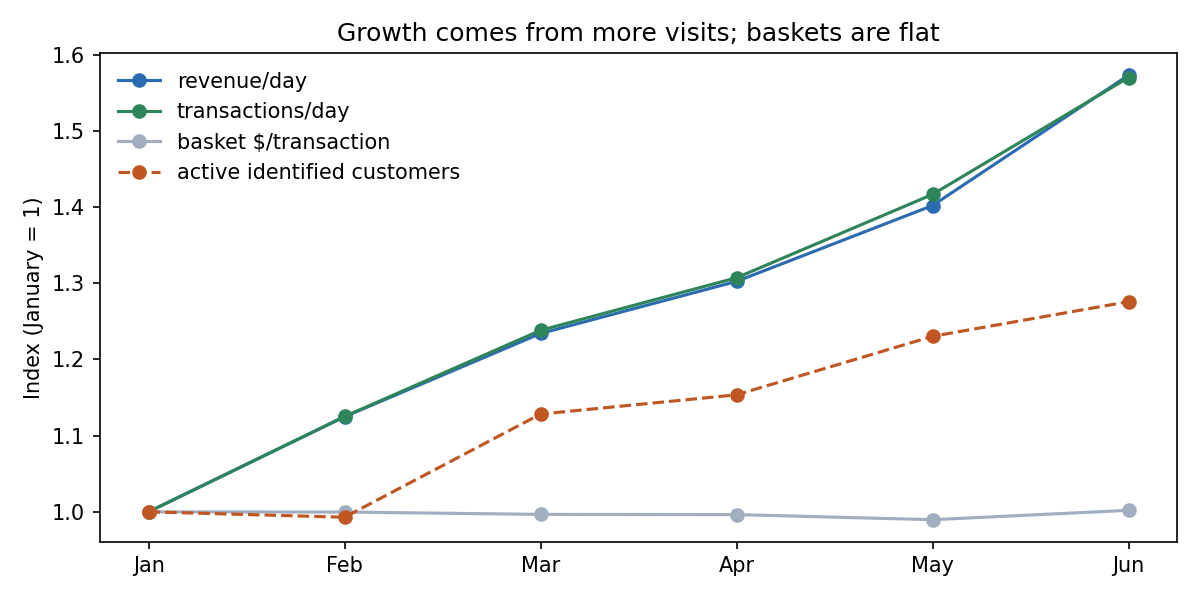
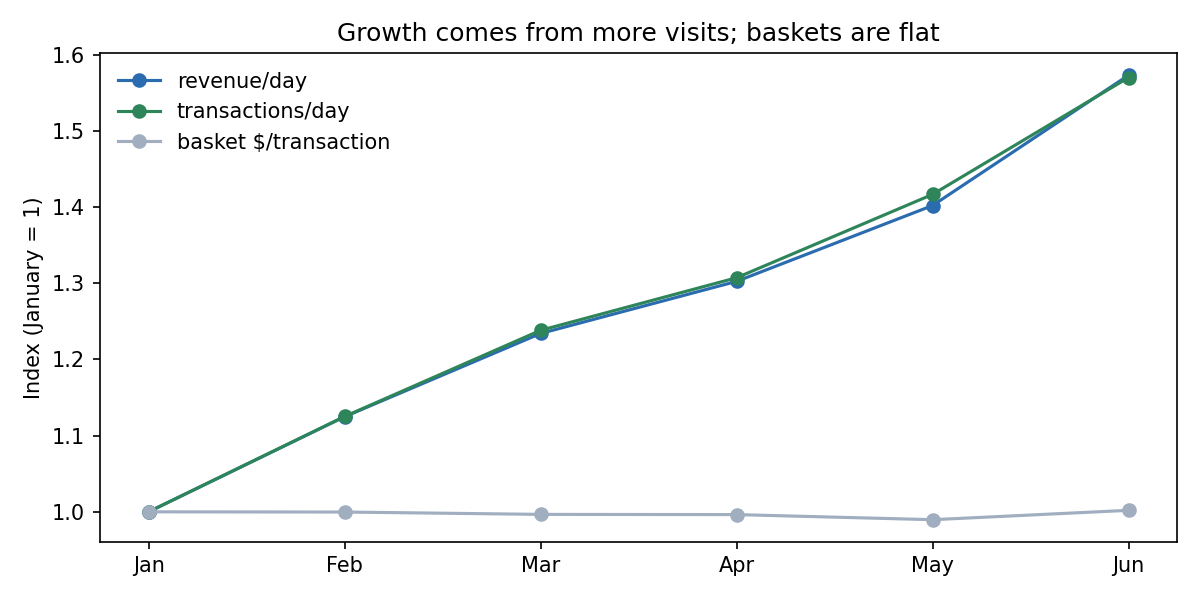
Add .gitignore and update documentation and analysis scripts

diff --git a/analysis/17_stockout_screen.py b/analysis/17_stockout_screen.py
@@ -33,10 +33,20 @@ u["pearson"] = (u.Quantity - u.expected) / u.expected.pow(0.5)
 log(f"Overall dispersion (variance / Poisson variance): {(u.pearson ** 2).mean():.3f} (1.0 = pure chance)")
 u["p_low"] = poisson.cdf(u.Quantity, u.expected)
 n_low = int((u.p_low < 0.001).sum())
-log(f"Extreme low days (P(sales <= observed) < 0.1%): {n_low} observed; chance alone would give up to ~{len(u) * 0.001:.0f}")
+eligible = u[poisson.pmf(0, u.expected) < 0.001]  # only these days could ever be flagged, even with zero sales
+exp_flags_all = 0.0  # expected number of flags by chance: P(X <= largest k with CDF < 0.001), summed over days
+for m in u.expected:
+    k = int(poisson.ppf(0.001, m))
+    while k >= 0 and poisson.cdf(k, m) >= 0.001:
+        k -= 1
+    if k >= 0:
+        exp_flags_all += poisson.cdf(k, m)
+log(f"Extreme low days (P(sales <= observed) < 0.1%): {n_low} observed. Only {len(eligible):,} of {len(u):,} product-branch-days "
+    f"have enough expected demand for even zero sales to be flagged, and the expected number of flags by chance is "
+    f"~{exp_flags_all:.2f}. So observing 0 says little: this screen has LOW power to detect shortages.")
+log("Note: units include 2-unit lines, so a unit-Poisson model under-predicts zero days; a model of basket incidence would "
+    "expect more zeros, so the small excess of zero days may be a modelling artefact rather than a shortage signal.")
 u.loc[u.p_low < 0.01].sort_values("p_low").head(50).to_csv(OUT / "stockout_low_days.csv", index=False)
-log("Reading: zero-sales days run only slightly above chance (consistent with ordinary extra variation, dispersion ~1.09), "
-    "and there are no extreme low-sales days at all. The transaction data shows no stock-out signal, so product "
-    "availability does not appear to be a profit lever. Limit: a product that runs out late in the day would only show "
-    "as a partial shortfall, which this daily screen can't separate from noise; an hourly screen or inventory records "
-    "would be needed.")
+log("Reading: this daily screen does not provide sufficient evidence to recommend inventory investment, but it also has "
+    "limited ability to detect shortages, especially for slow-selling products. Availability remains unresolved without "
+    "stock records or hourly availability data.")

diff --git a/analysis/14_rules_value_pilot.py b/analysis/14_rules_value_pilot.py
@@ -28,9 +28,12 @@ rules = {
 }
 for k, v in rules.items():
     log(f"{k}: {v} of 45 products")
-log("Reading: four exact rules. Uptown's prices are NOT a fixed share of Harbour's (only approximately x0.915); they are "
-    "exactly Garden's rounded prices x 0.96. So the price lists form a chain Harbour -> /1.05 -> Garden -> x0.96 -> Uptown, "
-    "and Garden's ~4.8% discount carries over to Uptown. Garden's recorded prices are ~4.8% below "
+log(f"Reverse directions also match: Garden price = round(Uptown price / 0.96, 2): "
+    f"{(np.round(u['price']['Uptown'] / 0.96, 2) == u['price']['Garden']).sum()} of 45; Harbour price = round(Garden price x "
+    f"1.05, 2): {(np.round(u['price']['Garden'] * 1.05, 2) == H_p).sum()} of 45.")
+log("Reading: four exact rules. Uptown's prices are NOT a fixed share of Harbour's (only approximately x0.915); they equal "
+    "Garden's rounded prices x 0.96. The rules are consistent with coordinated price lists, but the data cannot show "
+    "which list was the source (the reverse relationships match too). Garden's recorded prices are ~4.8% below "
     "Harbour's while its recorded unit costs follow the 43% uplift rule. Whether either was intended is not visible in "
     "transactions; whoever owns the cost sheet and the price list can say why.")
 target_price = u["cost"]["Garden"] / (1 - (1 - H_c / H_p))

diff --git a/analysis/15_pilot_decision_rule.py b/analysis/15_pilot_decision_rule.py
@@ -104,6 +104,13 @@ log.table("Bias sensitivity of the one-sided rule: P(keep) for a harmless (0%) a
 for months in [1, 2]:
     for case, be in CASES.items():
         log(f"{months}-month pilot, {case}: keep only if measured loss < {be - 1.645 * s[months]:.1%}")
+sens_err = pd.DataFrame({f"keep threshold, {case.split(' (')[0]}": {f"{e:.1%}": be - 1.645 * e for e in [s[1], 0.03, 0.04]}
+                         for case, be in CASES.items()})
+sens_err.index.name = "assumed monthly measurement error"
+log.table("Sensitivity of the 1-month keep threshold to the assumed measurement error (planning table)",
+          sens_err.apply(lambda col: col.map(lambda v: f"{v:.1%}")))
+log("The 2.1% error is a planning convention from four windows, not a validated bound. Recalibrate it on recent "
+    "pre-pilot POS data before running the pilot; a larger error makes the keep threshold much stricter.")
 
 # Basket guardrail: how much do Garden's units and GP per transaction normally move month to month?
 gt = d[d["Branch"] == "Garden"].groupby("Transaction ID").agg(m=("month", "first"), units=("Quantity", "sum"),

diff --git a/analysis/06_original_findings.py b/analysis/06_original_findings.py
@@ -517,7 +517,6 @@ x = np.arange(1, 7)
 ax.plot(x, mo["revenue/day"] / mo.loc[1, "revenue/day"], marker="o", color="#2b6cb0", label="revenue/day")
 ax.plot(x, mo["txns/day"] / mo.loc[1, "txns/day"], marker="o", color="#2f855a", label="transactions/day")
 ax.plot(x, mo["basket $"] / mo.loc[1, "basket $"], marker="o", color="#a0aec0", label="basket $/transaction")
-ax.plot(x, mo["active"] / mo.loc[1, "active"], marker="o", color="#c05621", ls="--", label="active identified customers")
 ax.set_xticks(x, ["Jan", "Feb", "Mar", "Apr", "May", "Jun"])
 ax.set(ylabel="Index (January = 1)", title="Growth comes from more visits; baskets are flat")
 ax.legend(frameon=False)

diff --git a/README.md b/README.md
@@ -101,8 +101,9 @@ Source: `results/02_garden_margin.txt`, `results/14_rules_value_pilot.txt`. All 
 | Garden price = round(Harbour price ÷ **1.05**, 2) | **45 of 45** |
 | Uptown price = round(**Garden** price × **0.96**, 2) | **45 of 45** (vs Harbour × 0.915: only 36 of 45 within 1 cent) |
 
-**The price lists form a chain:** Harbour → ÷ 1.05 → Garden → × 0.96 → Uptown. Uptown's prices are derived from **Garden's**, not Harbour's, so Garden's
-~4.8% discount carries over automatically to Uptown. One audit question ("why is Garden priced at Harbour ÷ 1.05?") therefore covers two branches' pricing.
+**The price lists are linked:** all 45 prices satisfy Harbour ÷ 1.05 = Garden and Garden × 0.96 = Uptown (rounded to cents), consistent with coordinated
+price rules. The data cannot show which list was the source; the reverse relationships match too. Confirm the pricing workflow with its owner. If Uptown's
+list is set from Garden's, Garden's ~4.8% discount also lowers Uptown's prices, so the audit question about Garden's pricing may cover both branches.
 
 ![Unit cost vs Harbour](figures/01_unit_cost_vs_harbour.png)
 
@@ -227,6 +228,15 @@ more precise, because a frozen trend drifts. We use a measurement error of **2.1
 - **Bias sensitivity:** if the forecast is 2% too high or too low, a harmless rise is kept 82–100% of the time and a harmful 12%-loss rise at most 3.3%.
 - **Trade-off:** after a cost fix (or under allocation) the rule often **rejects profitable rises** (a 5% loss is kept only 30% of the time). Stories gives up some upside
   in exchange for rarely locking in a loss.
+- **How much the 2.1% matters** (planning table; `results/15_pilot_decision_rule.txt`). The 2.1% is a planning convention from four windows, not a validated
+  bound. **Recalibrate it on recent pre-pilot POS data before running the pilot:**
+
+| Assumed monthly measurement error | Keep threshold: real premium not yet recovered | Keep threshold: cost fixed or allocation |
+|---|---|---|
+| 2.1% | 6.1% | 3.9% |
+| 3.0% | 4.7% | 2.5% |
+| 4.0% | 3.0% | 0.8% |
+
 - **Limits:** four 1-month and three overlapping 2-month windows; tail risks can't be validated. Only fixed-horizon keep probabilities are computed. Early stopping
   and extensions are not evaluated, so the protocol uses no open-ended extensions.
 
@@ -255,8 +265,8 @@ detect (≥ 4.1%). We judge the pilot on Garden's traffic vs the frozen M1 forec
 **Step 1. Cost audit (this month; finance; ~16 hours).** (1) Pull the cost sheet and 3 months of supplier invoices for the top 14 products at Garden, Harbour
 and Uptown. (2) **If Garden's invoices are ~43% higher → purchase premium** → move Garden to Harbour's or Uptown's supply terms, starting with the
 top 14 products. (3) If invoices match but the cost sheet doesn't → **allocation** (restate the branch P&L so overhead sits below gross profit) or
-**error** (correct the 1.43). (4) Ask who set Garden's prices at Harbour ÷ 1.05, and why. Uptown's price list is derived from Garden's, so the answer
-affects both branches.
+**error** (correct the 1.43). (4) Ask who set Garden's prices at Harbour ÷ 1.05, and why, and how the three price lists are linked (Uptown's prices equal
+Garden's × 0.96, so the answer may affect both branches).
 
 **Step 2. Garden price pilot.** +5% on the whole Garden menu (to Harbour's prices) for **one full calendar month** (fixed horizon), avoiding promotions. Run it
 separately from the cost fix so the two effects don't mix. Primary metric: total Garden transactions vs the frozen M1 forecast. Cross-check: Garden ÷ (Harbour + Uptown).
@@ -393,8 +403,8 @@ type are **not** controlled, so some pairs could reflect shopping context (e.g. 
   additive**. This is a modest, low-cost lever, not a headline.
 - **Limit:** affinity is co-purchase, not proof that suggesting one item causes the other to be bought. Only the test can show that.
 
-More findings (evening margins, attach rates, menu engineering, opening hours, Uptown pricing, and a stock-out screen that found no sign of
-products running out): [APPENDIX.md](APPENDIX.md).
+More findings (evening margins, attach rates, menu engineering, opening hours, Uptown pricing, peak load, and a stock-out screen with limited
+detection power): [APPENDIX.md](APPENDIX.md).
 
 ## 9. Data quality
 
@@ -432,7 +442,8 @@ Sources: `results/01_data_quality.txt`, `results/07_robustness.txt`, `results/13
   - "the one-sided rule errs 2% of the time": that came from a normal model with an assumed bias; we now report keep probabilities with bias sensitivity, not a guarantee;
   - "the audit is positive in every scenario": false; it costs $400 if the premium is certainly not real;
   - "Uptown benchmark adds $9.0k": the correct figure is $7.2k beyond the Garden-only fix;
-  - "Uptown prices ≈ Harbour × 0.915 (approximate)": they are exactly Garden's prices × 0.96, so the four branch rules are all exact and form a chain;
+  - "Uptown prices ≈ Harbour × 0.915 (approximate)": they equal Garden's prices × 0.96 exactly, so all four rules are exact. We first wrote that Uptown's prices
+    are "derived from" Garden's, but the reverse relationships match too, so the source list is unknown;
   - "packaging/labour and inflation rejected": the export can't test them, so they are marked untestable;
   - "Customer IDs are invalid": softened to "no detectable persistence; validate before use";
   - "staff Tuesday ×1.5": softened to a staffing trial;

diff --git a/APPENDIX.md b/APPENDIX.md
@@ -40,7 +40,7 @@ lost by closing an hour would be higher than its recorded GP. Treat this as a ca
 ![GP per hour](figures/17_gp_per_hour.png)
 
 ## A5. Uptown pricing scenarios (`08_uptown_pricing.py`)
-Uptown prices are exactly Garden's prices × 0.96 (≈ Harbour × 0.914), while its costs are Harbour × 0.96.
+Uptown prices equal Garden's prices × 0.96 (≈ Harbour × 0.914), while its costs are Harbour × 0.96.
 
 | Assumed elasticity | 0 | −0.5 | −1.0 | −1.5 | −2.0 |
 |---|---|---|---|---|---|
@@ -61,13 +61,14 @@ pilot needs **two** months as a daily-noise planning estimate: it detects 10.2% 
 month-level error, which hasn't been validated for these eight items). A
 whole-menu pilot, measured as in README section 5, is cleaner.
 
-## A8. Stock-out screen: no sign of products running out (`17_stockout_screen.py`)
+## A8. Stock-out screen: inconclusive, because the screen has low power (`17_stockout_screen.py`)
 For every product, branch and day we compared actual units with what the product normally sells given that day's branch traffic (so weekday, growth
 and branch effects are built in), under a Poisson model. Zero-sales days: **5,205 observed vs 4,884 expected by chance** (overall variation 1.09× pure
-chance, i.e. ordinary noise). For products expected to sell 4+ units that day: 20 zero days vs 19.6 expected. **Extreme low-sales days: 0 observed**
-(chance alone would allow up to ~24). **Conclusion:** the transaction data shows no stock-out signal, so product availability doesn't appear to be a profit
-lever and isn't worth an inventory investment on this evidence. Limit: a product running out late in the day would show only as a partial shortfall,
-which a daily screen can't separate from noise; hourly data or inventory records would be needed.
+chance). For products expected to sell 4+ units that day: 20 zero days vs 19.6 expected. Units include 2-unit lines, so this model under-predicts zero
+days; the small excess may be a modelling artefact rather than a shortage signal. **Extreme low-sales days: 0 observed**, but only 336 of 24,435
+product-branch-days have enough expected demand for even zero sales to be flagged, and chance would produce only ~0.17 flags. So observing none says little.
+**Conclusion:** this daily screen gives no evidence for an inventory investment, but it also has limited ability to detect shortages, especially for
+slow-selling products. Availability remains unresolved without stock records or hourly availability data.
 
 ## A9. Peak load in 15-minute slots: staffing to hourly averages understates the rush (`19_peak_load.py`)
 In June, the busiest 15 minutes held **12 orders at Harbour, 8 at Garden and 7 at Uptown**, about **1.9–2.2×** what the busiest hour would give if it

diff --git a/SUMMARY.md b/SUMMARY.md
@@ -3,8 +3,8 @@
 **Team:** Abdallah Makke, Racha Massoud, Christia Daoud · EECE490, AUB
 
 **The finding.** Garden earns **46.9%** gross margin; Harbour earns **65.0%** on the same menu. For all 45 items, **Garden's recorded unit cost =
-Harbour's × 1.43 and Garden's price = Harbour's ÷ 1.05** (~4.8% lower), exactly after rounding to cents. Uptown's prices are in turn exactly
-Garden's × 0.96, so Garden's discount carries over to Uptown. The observed differences in mix,
+Harbour's × 1.43 and Garden's price = Harbour's ÷ 1.05** (~4.8% lower), exactly after rounding to cents. Uptown's prices in turn equal
+Garden's × 0.96, consistent with coordinated price lists (which list is the source can't be seen in the data). The observed differences in mix,
 discounts, basket and timing don't explain the gap. The 1.43 is a rule someone set: a supplier contract, delivery surcharge, overhead allocation, or cost-sheet error.
 
 **The money (annual gross profit, estimates).**
